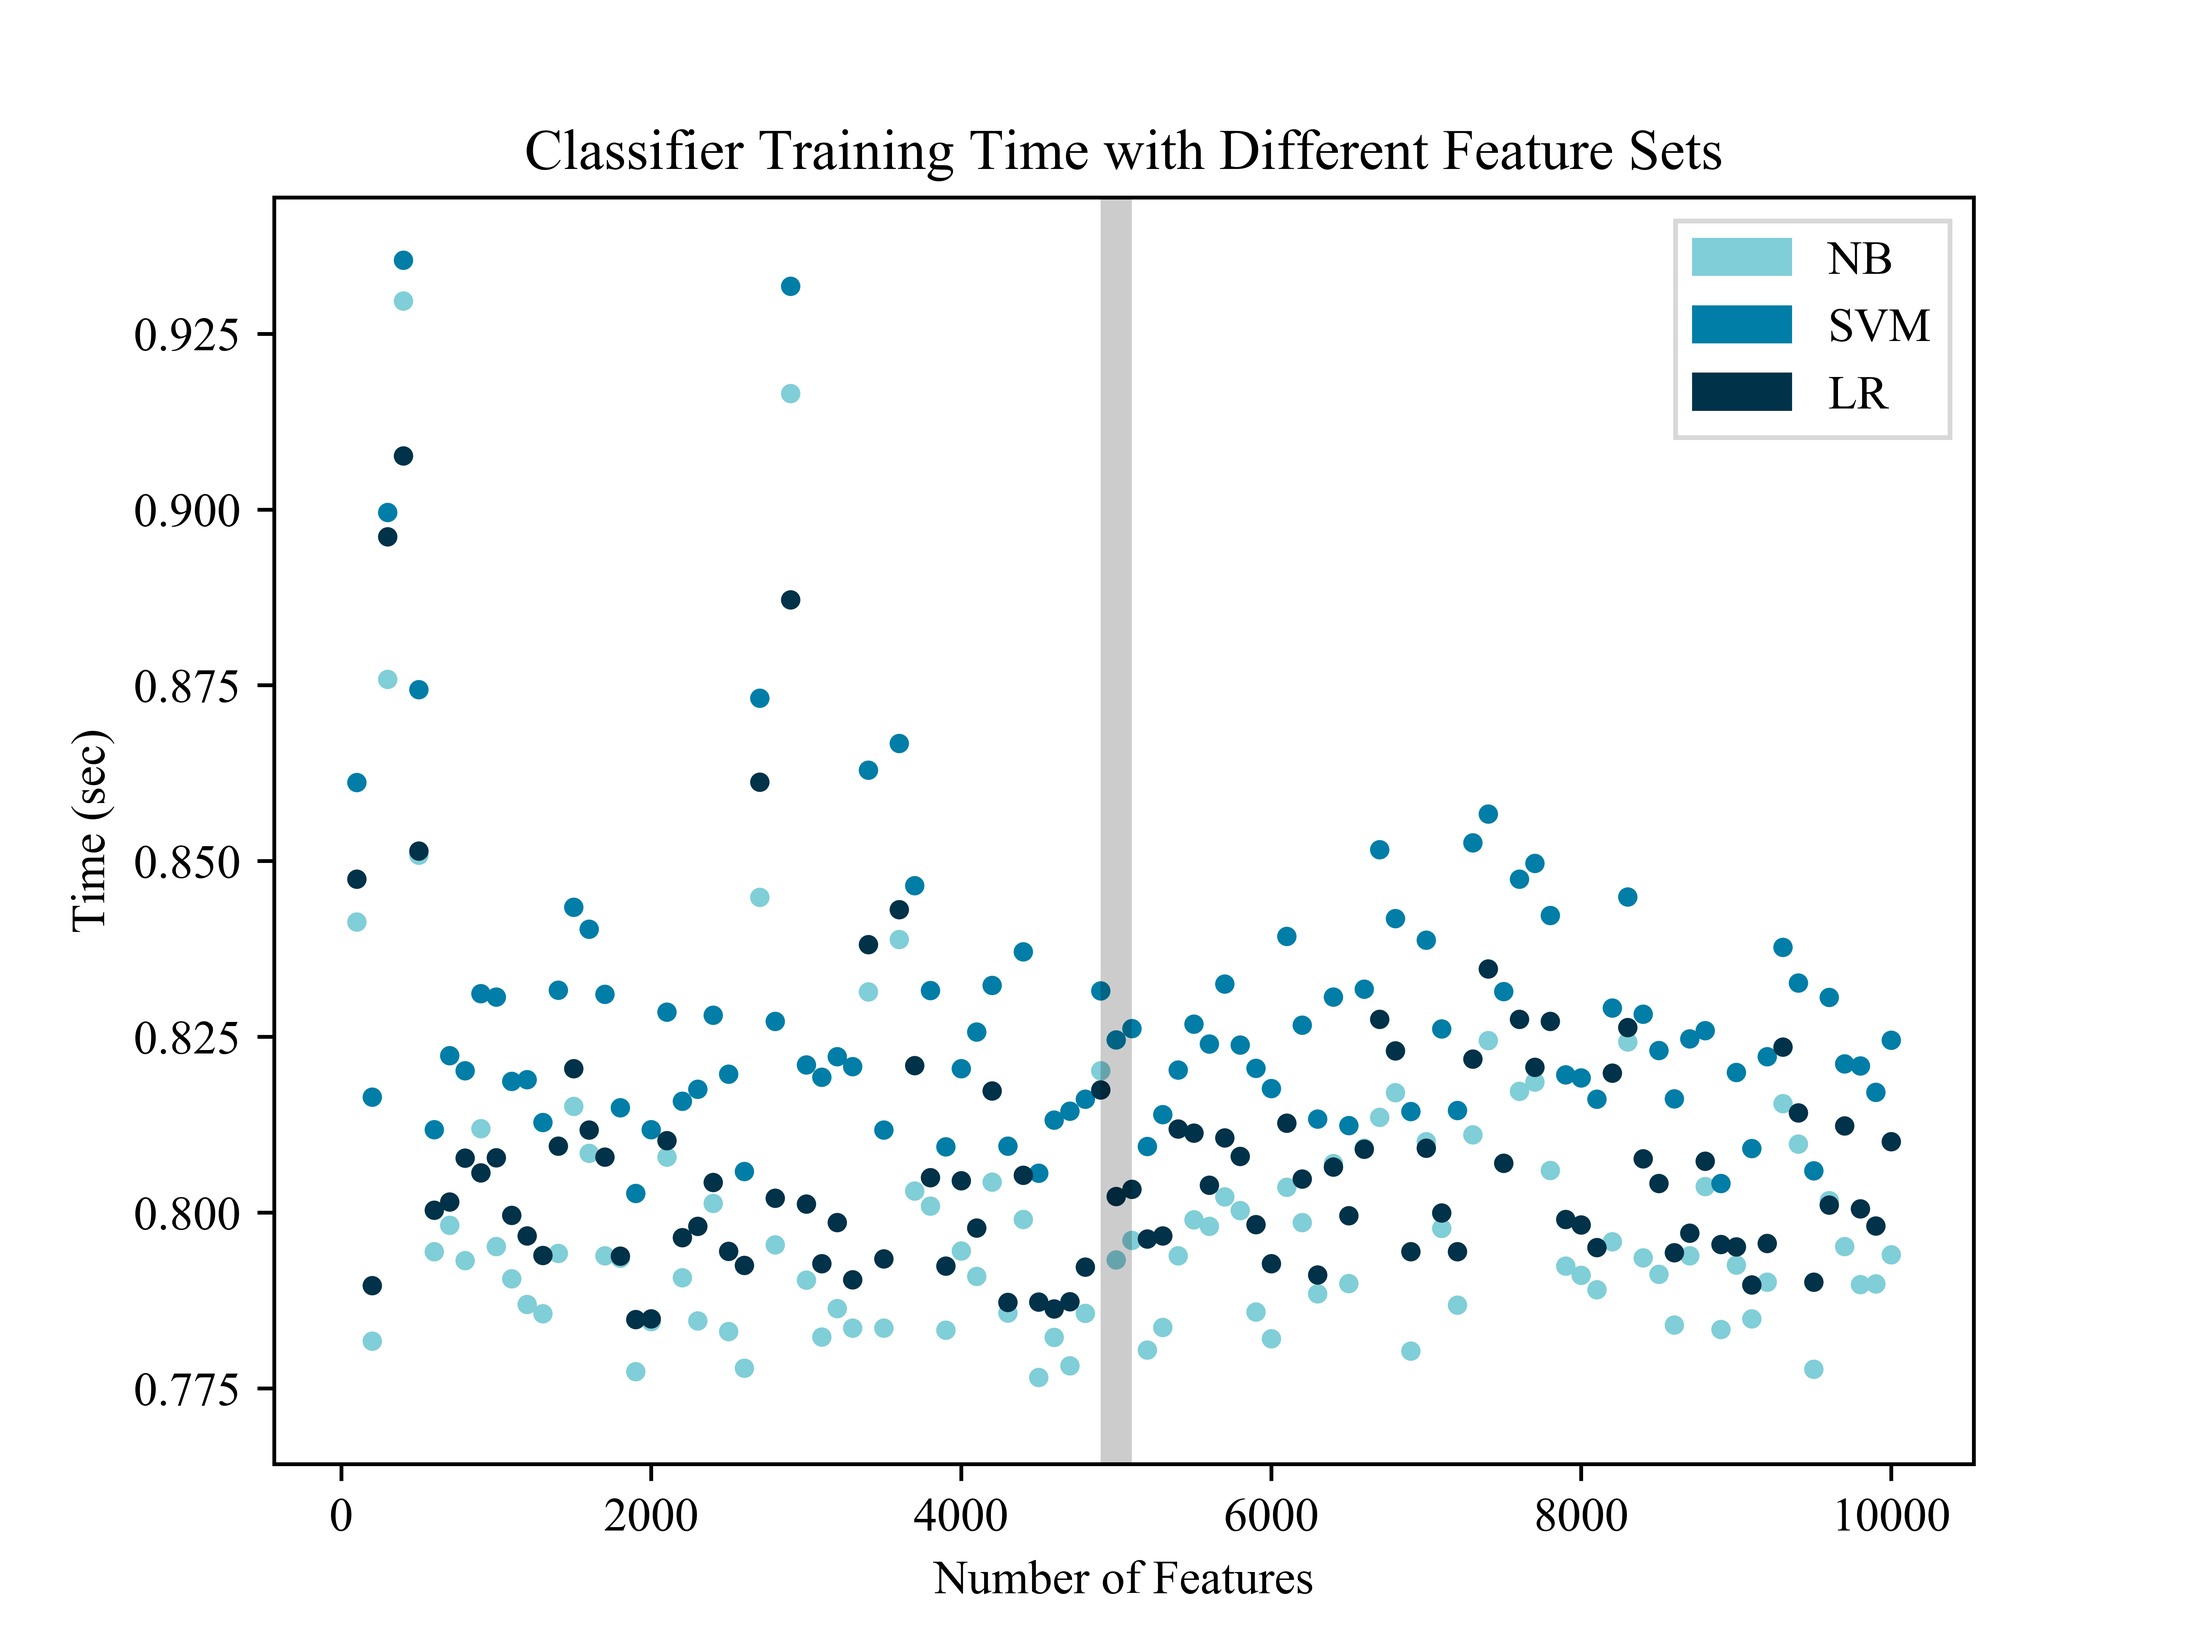
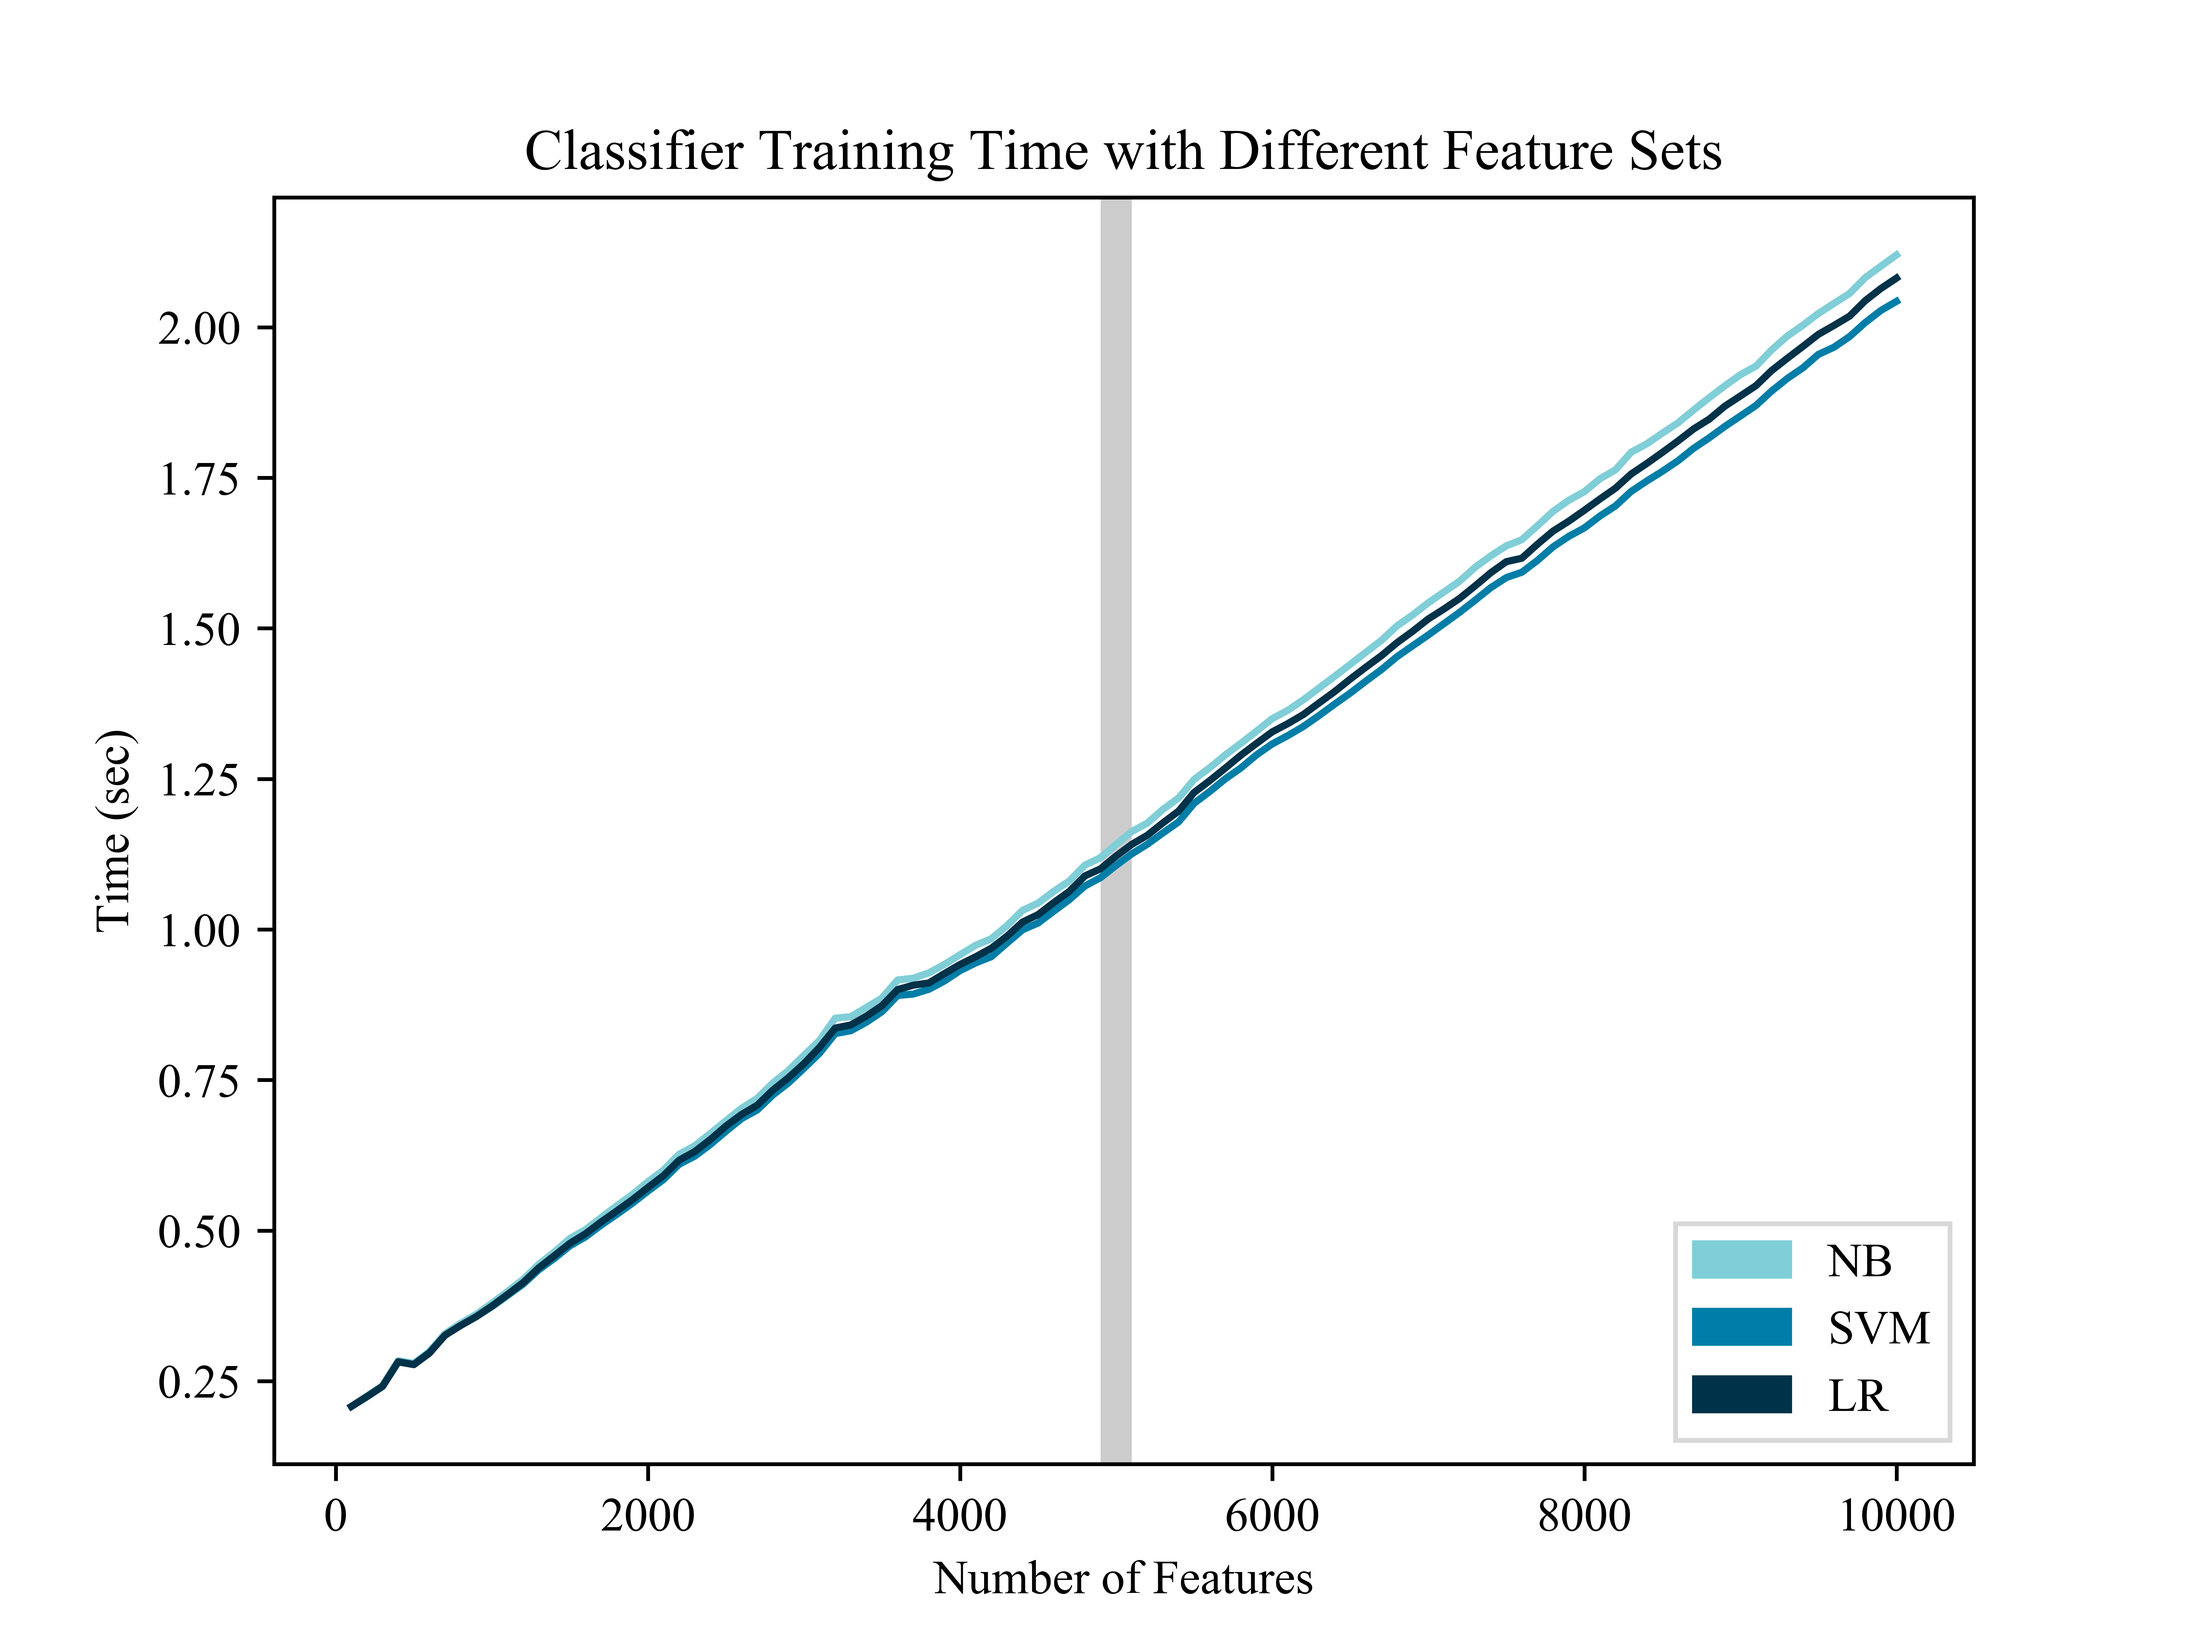
updated graphs for 50 iterations

diff --git a/graphs/iter_time.py b/graphs/iter_time.py
@@ -13,8 +13,8 @@ for line in f.read().strip().split('\n'):
     tokens = [float(token) for token in line.split(',')]
     num, a1, a2, a3, t1, t2, t3 = tokens
     iters.append(num)
-    nb_time.append(t1)
-    svm_time.append(t2)
+    nb_time.append(t2)
+    svm_time.append(t1)
     lr_time.append(t3)
 f.close()
 
@@ -23,9 +23,9 @@ plt.xlabel('Number of Features')
 plt.ylabel('Time (sec)')
 
 # plots
-plt.scatter(iters, nb_time, s=np.pi * 3, color='#80CED7')
-plt.scatter(iters, svm_time, s=np.pi * 3, color='#007EA7')
-plt.scatter(iters, lr_time, s=np.pi * 3, color='#003249')
+plt.plot(iters, nb_time, color='#80CED7')
+plt.plot(iters, svm_time, color='#007EA7')
+plt.plot(iters, lr_time, color='#003249')
 
 # legend
 l1 = mpatches.Patch(label='NB', color='#80CED7')
@@ -37,7 +37,7 @@ plt.axvspan(4900, 5100, linewidth=0, color='#000000', alpha=0.2)
 
 # legend
 plt.legend(
-    loc='upper right',
+    loc='lower right',
     edgecolor='#D8D8D8',
     framealpha=1,
     fancybox=False,

diff --git a/graphs/iter_accuracy.py b/graphs/iter_accuracy.py
@@ -13,8 +13,8 @@ for line in f.read().strip().split('\n'):
     tokens = [float(token) for token in line.split(',')]
     num, a1, a2, a3, t1, t2, t3 = tokens
     iters.append(num)
-    nb_avg.append(a1)
-    svm_avg.append(a2)
+    nb_avg.append(a2)
+    svm_avg.append(a1)
     lr_avg.append(a3)
 f.close()
 
